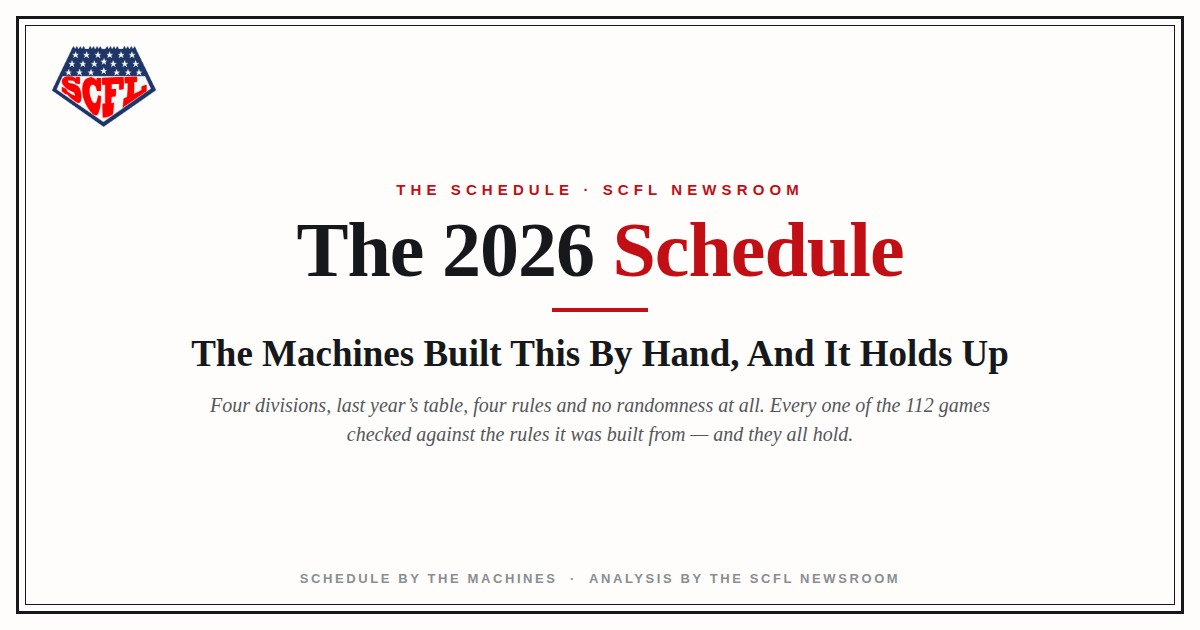
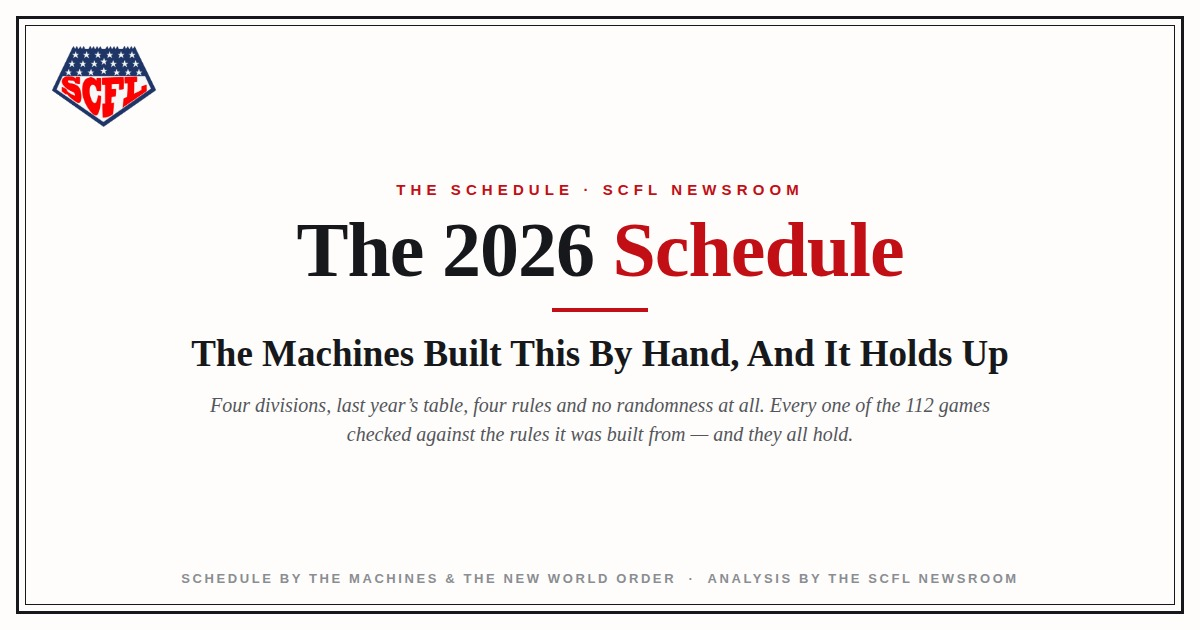
Credit the New World Order alongside The Machines
He has shared the schedule-building job for years. Named in the credit
line, the cover, the share card, the opening, the rules page, the close
and the sourcing note.

Claude-Session: https://claude.ai/code/session_01DpxhgphBuYUCZbcqVv9twN

Changed region(s): [[0.1542, 0.9048, 0.8633, 0.9349]]

diff --git a/scfl-2026-schedule.html b/scfl-2026-schedule.html
@@ -103,24 +103,24 @@ ol.facts li b{color:var(--ink);}
 <div class="cov-mid"><div class="cov-stamp">Released</div>
 <div class="cov-h">The Machines Built This By Hand, And It Holds Up</div>
 <div class="cov-dek">Four divisions, last year&rsquo;s table, four rules and no randomness at all. We checked every one of the 112 games against the rules The Machines filed &mdash; and found something in the design that nobody in the chat has noticed.</div></div>
-<div class="cov-bot"><div class="cov-by">Schedule by <b>The Machines</b></div>
+<div class="cov-bot"><div class="cov-by">Schedule by <b>The Machines</b> &amp; the <b>New World Order</b></div>
 <div class="cov-by" style="margin-top:5px">Analysis by the <b>SCFL NewsRoom</b></div>
 <div class="cov-note">112 games &middot; 16 clubs &middot; 4 divisions &middot; every rule checked</div></div>
 </div></section>
 <section class="page"><div class="page-inner"><div class="runhead">SCFL NewsRoom &middot; The Schedule &middot; August 2026</div><span class="flag">Schedule Release</span><div class="dateline">Mos Eisley &middot; August 23, 2026</div>
 <h1 class="hl">The Machines Built This By Hand, And It Holds Up</h1>
-<div class="credit">Schedule designed and built by <b>The Machines</b> &middot; Analysis by the SCFL NewsRoom</div>
+<div class="credit">Schedule designed and built by <b>The Machines</b>, with <b>the New World Order</b><br>Analysis by the SCFL NewsRoom</div>
 <p class="b"><span class="drop">T</span>he 2026 card went up on Sleeper this week, and the reaction in the chat was the reaction it always is: sixteen men scrolling to week one, finding their own name, and deciding within four seconds whether they have been robbed.</p>
 <p class="b">So this desk did the boring thing. We pulled the whole card down &mdash; 112 games, fourteen weeks, sixteen clubs &mdash; laid it against twenty-one seasons of league history and against what every roster is currently worth, and went looking for the shape of it.</p>
-<p class="b">The card is The Machines&rsquo; work. He has been building this league&rsquo;s schedule by hand for years, and this afternoon he posted the rules he builds it from &mdash; which spared us the guesswork and gave us something better to do: check them.</p>
+<p class="b">The card is The Machines&rsquo; work, with the New World Order alongside him &mdash; the two of them have been building this league&rsquo;s schedule by hand for years, and the system below is theirs. This afternoon The Machines posted the rules they build it from, which spared us the guesswork and gave us something better to do: check them.</p>
 <p class="b">All four rules hold. Across all 112 games. Not approximately &mdash; exactly, with no exceptions and no fudged fixtures. Every single game on this card follows from two facts about your club: which division you are in, and where you finished in it last year.</p>
-<p class="b"><b>There is no luck in this schedule at all.</b> Nothing was drawn. Nothing was randomised. No generator touched it. One man sat down with four divisions and a final table and produced 112 games that obey four rules exactly &mdash; and if you do not like your card, you built it in November.</p>
+<p class="b"><b>There is no luck in this schedule at all.</b> Nothing was drawn. Nothing was randomised. No generator touched it. Two men sat down with four divisions and a final table and produced 112 games that obey four rules exactly &mdash; and if you do not like your card, you built it in November.</p>
 <p class="b">What follows is the card, the machine behind it, what the design does that nobody in the chat has noticed, and the eleven things worth knowing before week one.</p></div></section>
 <section class="page"><div class="page-inner"><div class="runhead">SCFL NewsRoom &middot; The Schedule &middot; August 2026</div><div class="sect">The Card &mdash; Weeks 1 to 5</div><div class="wk"><div class="wkh">Week 1 <span class="podtag">paired division</span></div><table class="sg"><tr><td class="t">Powers of Pain</td><td class="v">v</td><td class="t r">Pork Chop Express</td></tr><tr><td class="t">The Machines</td><td class="v">v</td><td class="t r">Horse Collars</td></tr><tr><td class="t">New World Order</td><td class="v">v</td><td class="t r">Lil Chops</td></tr><tr><td class="t">Big Blue</td><td class="v">v</td><td class="t r">Guido Haters</td></tr><tr><td class="t">Hairy Gumbas</td><td class="v">v</td><td class="t r">Master Jet-I</td></tr><tr><td class="t">Beaver Eaters</td><td class="v">v</td><td class="t r">Smoke Dragons</td></tr><tr><td class="t">Killer Klowns</td><td class="v">v</td><td class="t r">Heavy Hitters</td></tr><tr><td class="t">Wookie Leaks</td><td class="v">v</td><td class="t r">Still The Cream</td></tr></table></div><div class="wk"><div class="wkh">Week 2 <span class="podtag">division</span> <span class="mir">same card as week 8</span></div><table class="sg"><tr><td class="t">The Machines</td><td class="v">v</td><td class="t r">Master Jet-I</td></tr><tr><td class="t">Lil Chops</td><td class="v">v</td><td class="t r">Killer Klowns</td></tr><tr><td class="t">Beaver Eaters</td><td class="v">v</td><td class="t r">Big Blue</td></tr><tr><td class="t">Wookie Leaks</td><td class="v">v</td><td class="t r">Pork Chop Express</td></tr><tr><td class="t">Smoke Dragons</td><td class="v">v</td><td class="t r">Powers of Pain</td></tr><tr><td class="t">Still The Cream</td><td class="v">v</td><td class="t r">Guido Haters</td></tr><tr><td class="t">Horse Collars</td><td class="v">v</td><td class="t r">Heavy Hitters</td></tr><tr><td class="t">New World Order</td><td class="v">v</td><td class="t r">Hairy Gumbas</td></tr></table></div><div class="wk"><div class="wkh">Week 3 <span class="podtag">paired division</span></div><table class="sg"><tr><td class="t">The Machines</td><td class="v">v</td><td class="t r">Heavy Hitters</td></tr><tr><td class="t">Hairy Gumbas</td><td class="v">v</td><td class="t r">Lil Chops</td></tr><tr><td class="t">Horse Collars</td><td class="v">v</td><td class="t r">Master Jet-I</td></tr><tr><td class="t">New World Order</td><td class="v">v</td><td class="t r">Killer Klowns</td></tr><tr><td class="t">Still The Cream</td><td class="v">v</td><td class="t r">Big Blue</td></tr><tr><td class="t">Smoke Dragons</td><td class="v">v</td><td class="t r">Pork Chop Express</td></tr><tr><td class="t">Beaver Eaters</td><td class="v">v</td><td class="t r">Guido Haters</td></tr><tr><td class="t">Wookie Leaks</td><td class="v">v</td><td class="t r">Powers of Pain</td></tr></table></div><div class="wk"><div class="wkh">Week 4 <span class="podtag">division</span> <span class="mir">same card as week 10</span></div><table class="sg"><tr><td class="t">The Machines</td><td class="v">v</td><td class="t r">Lil Chops</td></tr><tr><td class="t">Killer Klowns</td><td class="v">v</td><td class="t r">Master Jet-I</td></tr><tr><td class="t">Pork Chop Express</td><td class="v">v</td><td class="t r">Big Blue</td></tr><tr><td class="t">Beaver Eaters</td><td class="v">v</td><td class="t r">Wookie Leaks</td></tr><tr><td class="t">Smoke Dragons</td><td class="v">v</td><td class="t r">Still The Cream</td></tr><tr><td class="t">Powers of Pain</td><td class="v">v</td><td class="t r">Guido Haters</td></tr><tr><td class="t">New World Order</td><td class="v">v</td><td class="t r">Heavy Hitters</td></tr><tr><td class="t">Hairy Gumbas</td><td class="v">v</td><td class="t r">Horse Collars</td></tr></table></div><div class="wk"><div class="wkh">Week 5 <span class="podtag">mirrored finish</span></div><table class="sg"><tr><td class="t">The Machines</td><td class="v">v</td><td class="t r">Powers of Pain</td></tr><tr><td class="t">Horse Collars</td><td class="v">v</td><td class="t r">Pork Chop Express</td></tr><tr><td class="t">Lil Chops</td><td class="v">v</td><td class="t r">Guido Haters</td></tr><tr><td class="t">New World Order</td><td class="v">v</td><td class="t r">Big Blue</td></tr><tr><td class="t">Beaver Eaters</td><td class="v">v</td><td class="t r">Master Jet-I</td></tr><tr><td class="t">Smoke Dragons</td><td class="v">v</td><td class="t r">Hairy Gumbas</td></tr><tr><td class="t">Killer Klowns</td><td class="v">v</td><td class="t r">Still The Cream</td></tr><tr><td class="t">Wookie Leaks</td><td class="v">v</td><td class="t r">Heavy Hitters</td></tr></table></div></div></section>
 <section class="page"><div class="page-inner"><div class="runhead">SCFL NewsRoom &middot; The Schedule &middot; August 2026</div><div class="sect">The Card &mdash; Weeks 6 to 10</div><div class="wk"><div class="wkh">Week 6 <span class="podtag">mirrored finish</span></div><table class="sg"><tr><td class="t">The Machines</td><td class="v">v</td><td class="t r">Smoke Dragons</td></tr><tr><td class="t">Pork Chop Express</td><td class="v">v</td><td class="t r">Master Jet-I</td></tr><tr><td class="t">Beaver Eaters</td><td class="v">v</td><td class="t r">Horse Collars</td></tr><tr><td class="t">Hairy Gumbas</td><td class="v">v</td><td class="t r">Powers of Pain</td></tr><tr><td class="t">Wookie Leaks</td><td class="v">v</td><td class="t r">Lil Chops</td></tr><tr><td class="t">Killer Klowns</td><td class="v">v</td><td class="t r">Guido Haters</td></tr><tr><td class="t">Heavy Hitters</td><td class="v">v</td><td class="t r">Big Blue</td></tr><tr><td class="t">New World Order</td><td class="v">v</td><td class="t r">Still The Cream</td></tr></table></div><div class="wk"><div class="wkh">Week 7 <span class="podtag">division</span> <span class="mir">same card as week 13</span></div><table class="sg"><tr><td class="t">The Machines</td><td class="v">v</td><td class="t r">Killer Klowns</td></tr><tr><td class="t">Lil Chops</td><td class="v">v</td><td class="t r">Master Jet-I</td></tr><tr><td class="t">Wookie Leaks</td><td class="v">v</td><td class="t r">Big Blue</td></tr><tr><td class="t">Beaver Eaters</td><td class="v">v</td><td class="t r">Pork Chop Express</td></tr><tr><td class="t">Smoke Dragons</td><td class="v">v</td><td class="t r">Guido Haters</td></tr><tr><td class="t">Powers of Pain</td><td class="v">v</td><td class="t r">Still The Cream</td></tr><tr><td class="t">Hairy Gumbas</td><td class="v">v</td><td class="t r">Heavy Hitters</td></tr><tr><td class="t">New World Order</td><td class="v">v</td><td class="t r">Horse Collars</td></tr></table></div><div class="wk"><div class="wkh">Week 8 <span class="podtag">division</span> <span class="mir">same card as week 2</span></div><table class="sg"><tr><td class="t">The Machines</td><td class="v">v</td><td class="t r">Master Jet-I</td></tr><tr><td class="t">Lil Chops</td><td class="v">v</td><td class="t r">Killer Klowns</td></tr><tr><td class="t">Beaver Eaters</td><td class="v">v</td><td class="t r">Big Blue</td></tr><tr><td class="t">Wookie Leaks</td><td class="v">v</td><td class="t r">Pork Chop Express</td></tr><tr><td class="t">Smoke Dragons</td><td class="v">v</td><td class="t r">Powers of Pain</td></tr><tr><td class="t">Still The Cream</td><td class="v">v</td><td class="t r">Guido Haters</td></tr><tr><td class="t">Horse Collars</td><td class="v">v</td><td class="t r">Heavy Hitters</td></tr><tr><td class="t">New World Order</td><td class="v">v</td><td class="t r">Hairy Gumbas</td></tr></table></div><div class="wk"><div class="wkh">Week 9 <span class="podtag">same finish</span></div><table class="sg"><tr><td class="t">The Machines</td><td class="v">v</td><td class="t r">Pork Chop Express</td></tr><tr><td class="t">Powers of Pain</td><td class="v">v</td><td class="t r">Horse Collars</td></tr><tr><td class="t">Lil Chops</td><td class="v">v</td><td class="t r">Big Blue</td></tr><tr><td class="t">New World Order</td><td class="v">v</td><td class="t r">Guido Haters</td></tr><tr><td class="t">Smoke Dragons</td><td class="v">v</td><td class="t r">Master Jet-I</td></tr><tr><td class="t">Beaver Eaters</td><td class="v">v</td><td class="t r">Hairy Gumbas</td></tr><tr><td class="t">Still The Cream</td><td class="v">v</td><td class="t r">Heavy Hitters</td></tr><tr><td class="t">Wookie Leaks</td><td class="v">v</td><td class="t r">Killer Klowns</td></tr></table></div><div class="wk"><div class="wkh">Week 10 <span class="podtag">division</span> <span class="mir">same card as week 4</span></div><table class="sg"><tr><td class="t">The Machines</td><td class="v">v</td><td class="t r">Lil Chops</td></tr><tr><td class="t">Killer Klowns</td><td class="v">v</td><td class="t r">Master Jet-I</td></tr><tr><td class="t">Pork Chop Express</td><td class="v">v</td><td class="t r">Big Blue</td></tr><tr><td class="t">Beaver Eaters</td><td class="v">v</td><td class="t r">Wookie Leaks</td></tr><tr><td class="t">Smoke Dragons</td><td class="v">v</td><td class="t r">Still The Cream</td></tr><tr><td class="t">Powers of Pain</td><td class="v">v</td><td class="t r">Guido Haters</td></tr><tr><td class="t">New World Order</td><td class="v">v</td><td class="t r">Heavy Hitters</td></tr><tr><td class="t">Hairy Gumbas</td><td class="v">v</td><td class="t r">Horse Collars</td></tr></table></div></div></section>
 <section class="page"><div class="page-inner"><div class="runhead">SCFL NewsRoom &middot; The Schedule &middot; August 2026</div><div class="sect">The Card &mdash; Weeks 11 to 14</div><div class="wk"><div class="wkh">Week 11 <span class="podtag">mirrored finish</span></div><table class="sg"><tr><td class="t">Beaver Eaters</td><td class="v">v</td><td class="t r">The Machines</td></tr><tr><td class="t">Hairy Gumbas</td><td class="v">v</td><td class="t r">Pork Chop Express</td></tr><tr><td class="t">Smoke Dragons</td><td class="v">v</td><td class="t r">Horse Collars</td></tr><tr><td class="t">Powers of Pain</td><td class="v">v</td><td class="t r">Master Jet-I</td></tr><tr><td class="t">Lil Chops</td><td class="v">v</td><td class="t r">Still The Cream</td></tr><tr><td class="t">Heavy Hitters</td><td class="v">v</td><td class="t r">Guido Haters</td></tr><tr><td class="t">Killer Klowns</td><td class="v">v</td><td class="t r">Big Blue</td></tr><tr><td class="t">New World Order</td><td class="v">v</td><td class="t r">Wookie Leaks</td></tr></table></div><div class="wk"><div class="wkh">Week 12 <span class="podtag">paired division</span></div><table class="sg"><tr><td class="t">New World Order</td><td class="v">v</td><td class="t r">The Machines</td></tr><tr><td class="t">Lil Chops</td><td class="v">v</td><td class="t r">Horse Collars</td></tr><tr><td class="t">Heavy Hitters</td><td class="v">v</td><td class="t r">Master Jet-I</td></tr><tr><td class="t">Hairy Gumbas</td><td class="v">v</td><td class="t r">Killer Klowns</td></tr><tr><td class="t">Powers of Pain</td><td class="v">v</td><td class="t r">Big Blue</td></tr><tr><td class="t">Pork Chop Express</td><td class="v">v</td><td class="t r">Guido Haters</td></tr><tr><td class="t">Smoke Dragons</td><td class="v">v</td><td class="t r">Wookie Leaks</td></tr><tr><td class="t">Beaver Eaters</td><td class="v">v</td><td class="t r">Still The Cream</td></tr></table></div><div class="wk"><div class="wkh">Week 13 <span class="podtag">division</span> <span class="mir">same card as week 7</span></div><table class="sg"><tr><td class="t">The Machines</td><td class="v">v</td><td class="t r">Killer Klowns</td></tr><tr><td class="t">Lil Chops</td><td class="v">v</td><td class="t r">Master Jet-I</td></tr><tr><td class="t">Wookie Leaks</td><td class="v">v</td><td class="t r">Big Blue</td></tr><tr><td class="t">Beaver Eaters</td><td class="v">v</td><td class="t r">Pork Chop Express</td></tr><tr><td class="t">Smoke Dragons</td><td class="v">v</td><td class="t r">Guido Haters</td></tr><tr><td class="t">Powers of Pain</td><td class="v">v</td><td class="t r">Still The Cream</td></tr><tr><td class="t">Hairy Gumbas</td><td class="v">v</td><td class="t r">Heavy Hitters</td></tr><tr><td class="t">New World Order</td><td class="v">v</td><td class="t r">Horse Collars</td></tr></table></div><div class="wk"><div class="wkh">Week 14 <span class="podtag">paired division</span></div><table class="sg"><tr><td class="t">The Machines</td><td class="v">v</td><td class="t r">Hairy Gumbas</td></tr><tr><td class="t">Lil Chops</td><td class="v">v</td><td class="t r">Heavy Hitters</td></tr><tr><td class="t">New World Order</td><td class="v">v</td><td class="t r">Master Jet-I</td></tr><tr><td class="t">Horse Collars</td><td class="v">v</td><td class="t r">Killer Klowns</td></tr><tr><td class="t">Smoke Dragons</td><td class="v">v</td><td class="t r">Big Blue</td></tr><tr><td class="t">Pork Chop Express</td><td class="v">v</td><td class="t r">Still The Cream</td></tr><tr><td class="t">Wookie Leaks</td><td class="v">v</td><td class="t r">Guido Haters</td></tr><tr><td class="t">Beaver Eaters</td><td class="v">v</td><td class="t r">Powers of Pain</td></tr></table></div><p class="key">The playoffs begin in week 15.</p></div></section>
 <section class="page"><div class="page-inner"><div class="runhead">SCFL NewsRoom &middot; The Schedule &middot; August 2026</div><div class="sect">The Rules, As Filed</div>
-<p class="b">The architect, for the avoidance of doubt, is <b>The Machines</b> &mdash; four-time champion, keeper of this league&rsquo;s institutional memory, and the man who has been sorting the SCFL calendar for longer than most of the current membership has been in it. At 4:17 this afternoon he posted the method, under the heading &ldquo;just in case people forgot for any reason how we sort the schedule&rdquo;:</p>
+<p class="b">The architect, for the avoidance of doubt, is <b>The Machines</b> &mdash; four-time champion, keeper of this league&rsquo;s institutional memory, and the man who has been sorting the SCFL calendar for longer than most of the current membership has been in it. He has not done it alone: <b>the New World Order</b> has been in the room for years helping build these schedules, and the structure below is as much his as anybody&rsquo;s. At 4:17 this afternoon The Machines posted the method, under the heading &ldquo;just in case people forgot for any reason how we sort the schedule&rdquo;:</p>
 <div class="pullquote">Play your Division 6 times. Divisionally: alternating divisions for 2026 &mdash; Spectre vs Black n Blue, Spartan vs Four Horsemen. Then teams that finished the same spot in standings. Final two games: 2026 1st place teams vs remaining two 3rd place teams; 2nd place teams vs remaining two 4th place teams. That&rsquo;s our 14 game schedule. It&rsquo;s a thing of beauty really.</div>
 <p class="b">It arrives at fourteen like this: <b>six</b> games inside your own division, home and away against all three rivals. <b>Four</b> against every club in the division you are paired with this year. <b>Two</b> against the clubs that finished where you finished, in the two divisions you are not paired with. And <b>two</b> against the clubs at the mirrored position &mdash; if you won your division, the two remaining third-place clubs; if you came second, the two remaining fourth-place clubs.</p>
 <p class="b">Six plus four plus two plus two. Fourteen.</p></div></section>
@@ -188,12 +188,12 @@ ol.facts li b{color:var(--ink);}
 <p class="b"><b>6. The Four Horsemen produce a division winner at 8&ndash;6 who thinks he is good.</b> The New World Order, Heavy Hitters, the Hairy Gumbas and Horse Collars are worth 1,072 between them &mdash; barely more than Big Blue and the Pork Chop Express are worth as a pair. Six of their fourteen games are against each other. The table will flatter all four of them.</p>
 <p class="b"><b>7. The Killer Klowns lose to The Machines twice.</b> They are 1&ndash;26 in twenty-seven meetings, they share a division, and the calendar says weeks 7 and 13. We are not going to be the ones to call the upset.</p></div></section>
 <section class="page"><div class="page-inner"><div class="runhead">SCFL NewsRoom &middot; The Schedule &middot; August 2026</div><div class="sect">The Short Version</div>
-<p class="b">Nobody drew this schedule out of a hat. <b>The Machines</b> built it out of four divisions and last year&rsquo;s finish inside them, by hand, and it checks out to the game &mdash; all 112 of them, four rules, no exceptions.</p>
+<p class="b">Nobody drew this schedule out of a hat. <b>The Machines</b> and <b>the New World Order</b> built it out of four divisions and last year&rsquo;s finish inside them, by hand, and it checks out to the game &mdash; all 112 of them, four rules, no exceptions.</p>
 <p class="b">The design does something the chat has not given it credit for. Your division, your paired division and your placement games each look badly unbalanced on their own. Stacked together they cancel: the spread in strength of schedule falls by 40 per cent over the last four games alone, and the finished card is more even than any slice of it.</p>
 <p class="b">What is left over is worth about a third of a win to the club it helps most. There is one systematic quirk &mdash; winning your division buys you a harder finish than coming second in it &mdash; and one thing the structure cannot fix, which is that Black and Blue is worth half again what The Four Horsemen are worth.</p>
 <p class="b">You are going to blame it anyway. Everybody does. But this year the receipts are public, the rules are on the record, and every fixture on the card traces back to something you did on the field. Week one is the Bosom Bowl rematch. After that nobody gets to blame anything.</p>
-<p class="b">He called it a thing of beauty. We came to check him and ended up agreeing with him. <b>Credit where it is due: the 2026 SCFL schedule is the work of The Machines.</b></p>
-<div class="devnote">Sourcing: the schedule, division names and division membership were pulled directly from the Sleeper API for league SCFL, 2026 season, 16 rosters, playoffs beginning week 15 &mdash; 112 games across fourteen weeks, every team name resolved against the SCFL franchise ledger. The 2026 schedule was designed and built by The Machines; the scheduling rules are quoted from his league-chat post of August 23, 2026, and were verified independently by this desk against every one of the 112 fixtures. All four hold with no exceptions. Head-to-head records, all-time series and 2025 division finishes come from eighteen seasons of league matchup data (2008&ndash;2025) mapped through the franchise ledger&rsquo;s 62 historical team-name aliases; the 2025 title game (Powers of Pain 114, Pork Chop Express 74) is from the week 17 bracket. Division pairings for 2023 and 2025 were reconstructed from those seasons&rsquo; matchups. Roster values are DynastyProcess superflex player values applied to current Sleeper rosters, August 2026. Projected wins use a logistic on roster-value difference; the scale parameter is a judgement call, and the article reports how the conclusions move when it changes.</div>
+<p class="b">He called it a thing of beauty. We came to check him and ended up agreeing with him. <b>Credit where it is due: the 2026 SCFL schedule is the work of The Machines and the New World Order</b> &mdash; two men, a spreadsheet and a set of rules that survives an audit of every game on it. Nobody else in this league does that job, and nobody else has to.</p>
+<div class="devnote">Sourcing: the schedule, division names and division membership were pulled directly from the Sleeper API for league SCFL, 2026 season, 16 rosters, playoffs beginning week 15 &mdash; 112 games across fourteen weeks, every team name resolved against the SCFL franchise ledger. The 2026 schedule was designed and built by The Machines, with the New World Order, who have shared the job for years; the scheduling rules are quoted from The Machines&rsquo; league-chat post of August 23, 2026, and were verified independently by this desk against every one of the 112 fixtures. All four hold with no exceptions. Head-to-head records, all-time series and 2025 division finishes come from eighteen seasons of league matchup data (2008&ndash;2025) mapped through the franchise ledger&rsquo;s 62 historical team-name aliases; the 2025 title game (Powers of Pain 114, Pork Chop Express 74) is from the week 17 bracket. Division pairings for 2023 and 2025 were reconstructed from those seasons&rsquo; matchups. Roster values are DynastyProcess superflex player values applied to current Sleeper rosters, August 2026. Projected wins use a logistic on roster-value difference; the scale parameter is a judgement call, and the article reports how the conclusions move when it changes.</div>
 <div class="sign">&mdash; The SCFL NewsRoom</div></div></section>
 </div></div>
 <button id="shareBtn" aria-label="Share" style="position:fixed;left:12px;bottom:12px;z-index:70;border:none;border-radius:999px;background:rgba(194,15,22,.45);backdrop-filter:blur(3px);color:#fff;font-weight:800;font-size:12.5px;padding:8px 14px;cursor:pointer;font-family:-apple-system,sans-serif">&#128228; Share</button>
